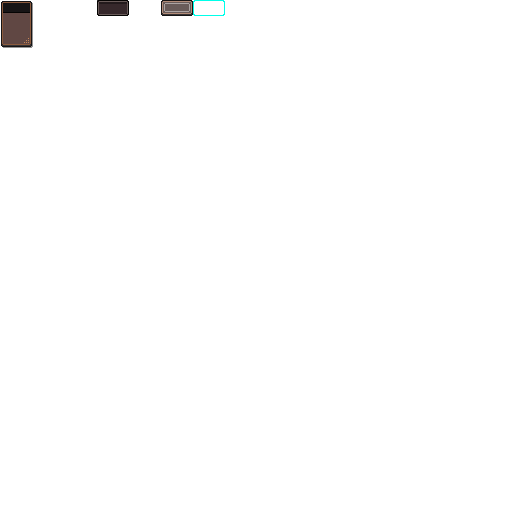
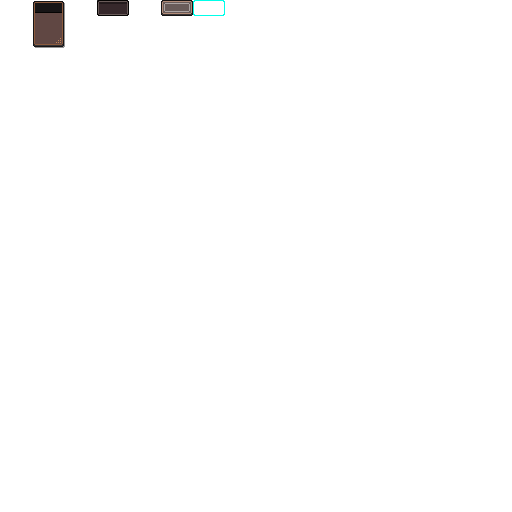
fix mouse events, fix when widget updates

Changed region(s): [[0.0, 0.0, 0.125, 0.0938]]

diff --git a/src/widget.cpp b/src/widget.cpp
@@ -80,11 +80,12 @@ void Widget::draw(GLContext* ctx)
     //if (m_inherit.x  > 0) m_box.x = m_bounds.x + m_bounds.width  * m_inherit.x;
     //if (m_inherit.y  > 0) m_box.y = m_bounds.y + m_bounds.height * m_inherit.y;
 
-    //#TODO: lots of redundant calls here
     if (m_parent && m_parent->m_needs_update)
     {
-        if (m_parent)
+        if (m_parent) {
             m_bounds = fbox::pad(m_parent->m_box, m_parent->m_padding);
+            m_bounds.pos = fvec2(m_parent->m_padding.left, m_parent->m_padding.top);
+        }
 
         if (m_inherit.width  > 0) m_box.width  = m_bounds.width  * m_inherit.width;
         if (m_inherit.height > 0) m_box.height = m_bounds.height * m_inherit.height;
@@ -92,14 +93,14 @@ void Widget::draw(GLContext* ctx)
         m_needs_update = true;
     }
 
-    ctx->setWidgetPos(ctx->m_widget_pos + m_box.pos + fvec2(m_padding.left, m_padding.top));
+    ctx->setWidgetPos(ctx->m_widget_pos + m_box.pos + m_bounds.pos);
     for (auto& w : m_children)
     {
         if (w == nullptr) continue;
         if (w->m_visible)
             w->draw(ctx);
     }
-    ctx->setWidgetPos(ctx->m_widget_pos - m_box.pos - fvec2(m_padding.left, m_padding.top));
+    ctx->setWidgetPos(ctx->m_widget_pos - m_box.pos - m_bounds.pos);
     m_needs_update = false;
 }
 
@@ -139,8 +140,11 @@ Widget* Widget::findWidget(ivec2& pos)
     for (auto it = m_children.rbegin(); it != m_children.rend(); ++it)
     {
         Widget* child = *it;
-        if (child->visible() && child->contains(pos))
+        if (child->visible() && child->contains(pos - fvec2(m_padding.left, m_padding.top)))
+        {
+            pos -= ivec2(m_padding.left, m_padding.top);
             return child->findWidget(pos);
+        }
     }
     return /*contains(pos) &&*/ m_visible ? this : nullptr;
 }

diff --git a/examples/example1.cpp b/examples/example1.cpp
@@ -74,16 +74,19 @@ int main()
     //window 1
     Widget* window1 = uictx.addWidget(new Window("window 1", 400, 600, 400, 200));
     Widget* sendbutton = new Button("send!!", [](){printf("sent lololo\n");});
+    Widget* button = new Button("yes", [](){printf("sent lololo\n");});
     Widget* input = new TextInput("Enter text:");
 
-    Widget* row1 = window1->addChild(new Row(100, 0));
+    Widget* row1 = window1->addChild(new Row(50, 0, 0));
     (*row1)[0] = sendbutton;
     (*row1)[1] = input;
+    (*row1)[2] = button;
 
     //window 2
     Widget* window2 = new Window("window 2", 200, 100, 800, 400);
 
     Widget* row2 = window2->addChild(new Row(180, 0));
+
     (*row2)[0] = new Box();
     (*row2)[0]->assignTexture("box1");
 
@@ -92,15 +95,14 @@ int main()
     (*row2)[1]->setFlags(0);
 
     Row* listrow = (Row*)(*row2)[1]->addChild(new Row());
+    listrow->setSize({0, 50});
     for (int i = 0; i < 15; i++)
     {
-        ListItem* item1 = new ListItem("lollipop", "A weird lollipop");
+        Widget* item1 = listrow->addCol(new ListItem("lollipop", "a lollipop"), 50);
         item1->assignTexture("listitem");
-        listrow->addCol(item1, 72);
 
-        ListItem* item2 = new ListItem("tennis", "A tennis ball");
+        Widget* item2 = listrow->addCol(new ListItem("tennis", "a tennis ball"), 30);
         item2->assignTexture("listitem");
-        listrow->addCol(item2, 40);
     }
 
     uictx.addWidget(window2);

diff --git a/src/row.cpp b/src/row.cpp
@@ -2,7 +2,7 @@
 
 using namespace AereGui;
 
-void Row::addCol(Widget* widget, float size)
+Widget* Row::addCol(Widget* widget, float size)
 {
     /*
     widget->setSize({size, m_height});
@@ -32,10 +32,12 @@ void Row::addCol(Widget* widget, float size)
     }
 
     m_needs_update = true;
+    return widget;
 }
 
 void Row::draw(GLContext* ctx)
 {
+    Widget::draw(ctx);
     if (m_parent && m_parent->m_needs_update)
     {
         float currWidth = 0;
@@ -51,5 +53,4 @@ void Row::draw(GLContext* ctx)
 
         m_needs_update = false;
     }
-    Widget::draw(ctx);
 }

diff --git a/include/types.h b/include/types.h
@@ -111,6 +111,13 @@ struct vec2
         return val;
     }
 
+    template <typename v>
+    void operator+=(const v& vec)
+    {
+        x += vec.x;
+        y += vec.y;
+    }
+
     //multiplication
     template <typename v>
     vec2<T> operator*(const v& num) const

diff --git a/include/row.h b/include/row.h
@@ -9,7 +9,7 @@ class Row : public Widget
 {
     friend class Widget;
 public:
-    void addCol(Widget* widget, float size);
+    Widget* addCol(Widget* widget, float size);
 
     template <typename... Cols>
     Row(Cols... columns)
